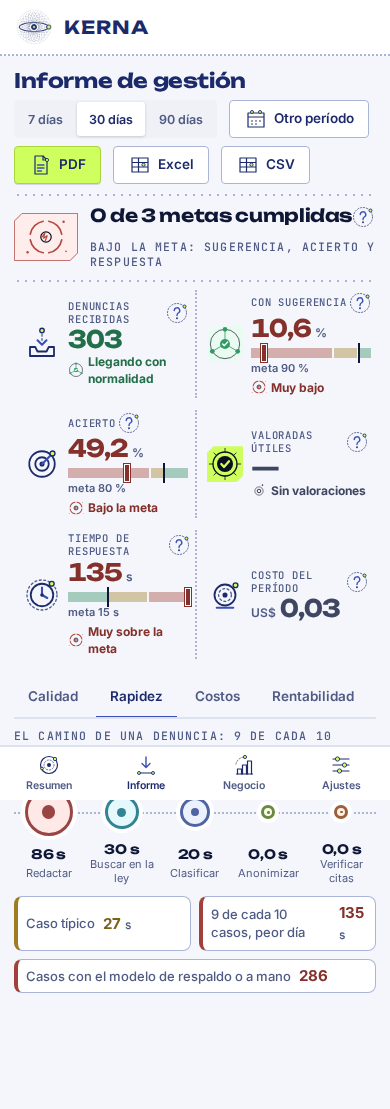
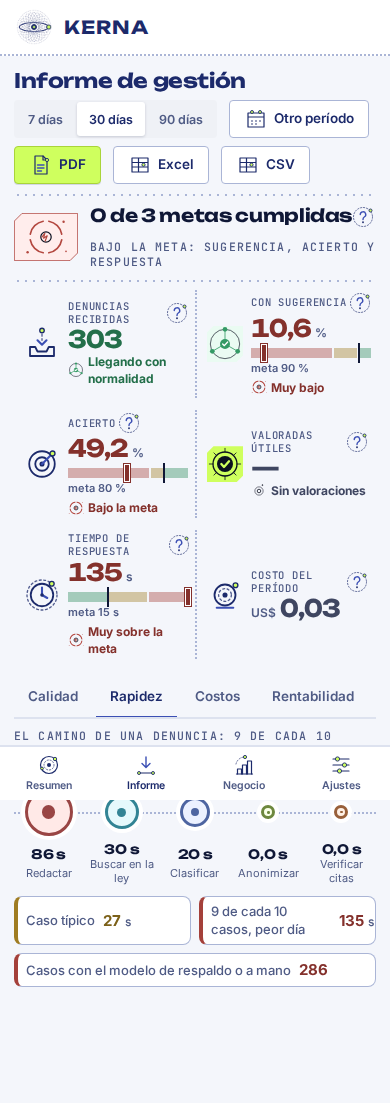
fix(front): chips de datos de apoyo sin desborde en móvil

diff --git a/kerna/front/app/estaticos/kerna.css b/kerna/front/app/estaticos/kerna.css
@@ -972,4 +972,4 @@ html,body{max-width:100%}
 @media(max-width:599px){.subtxt{display:none}.as-1 .ap{height:88px}}
 #app .ctl .seg{flex-wrap:nowrap}
 @media(max-width:599px){#app .ctl[data-t="sg"]{grid-template-columns:minmax(0,1fr)}#app .ctl[data-t="sg"] .ct-c{justify-content:flex-start}}
-.stt b{white-space:nowrap}.stt b small{white-space:nowrap}
+.stt b{white-space:nowrap}.stt li{flex-wrap:wrap;min-width:0;max-width:100%}
